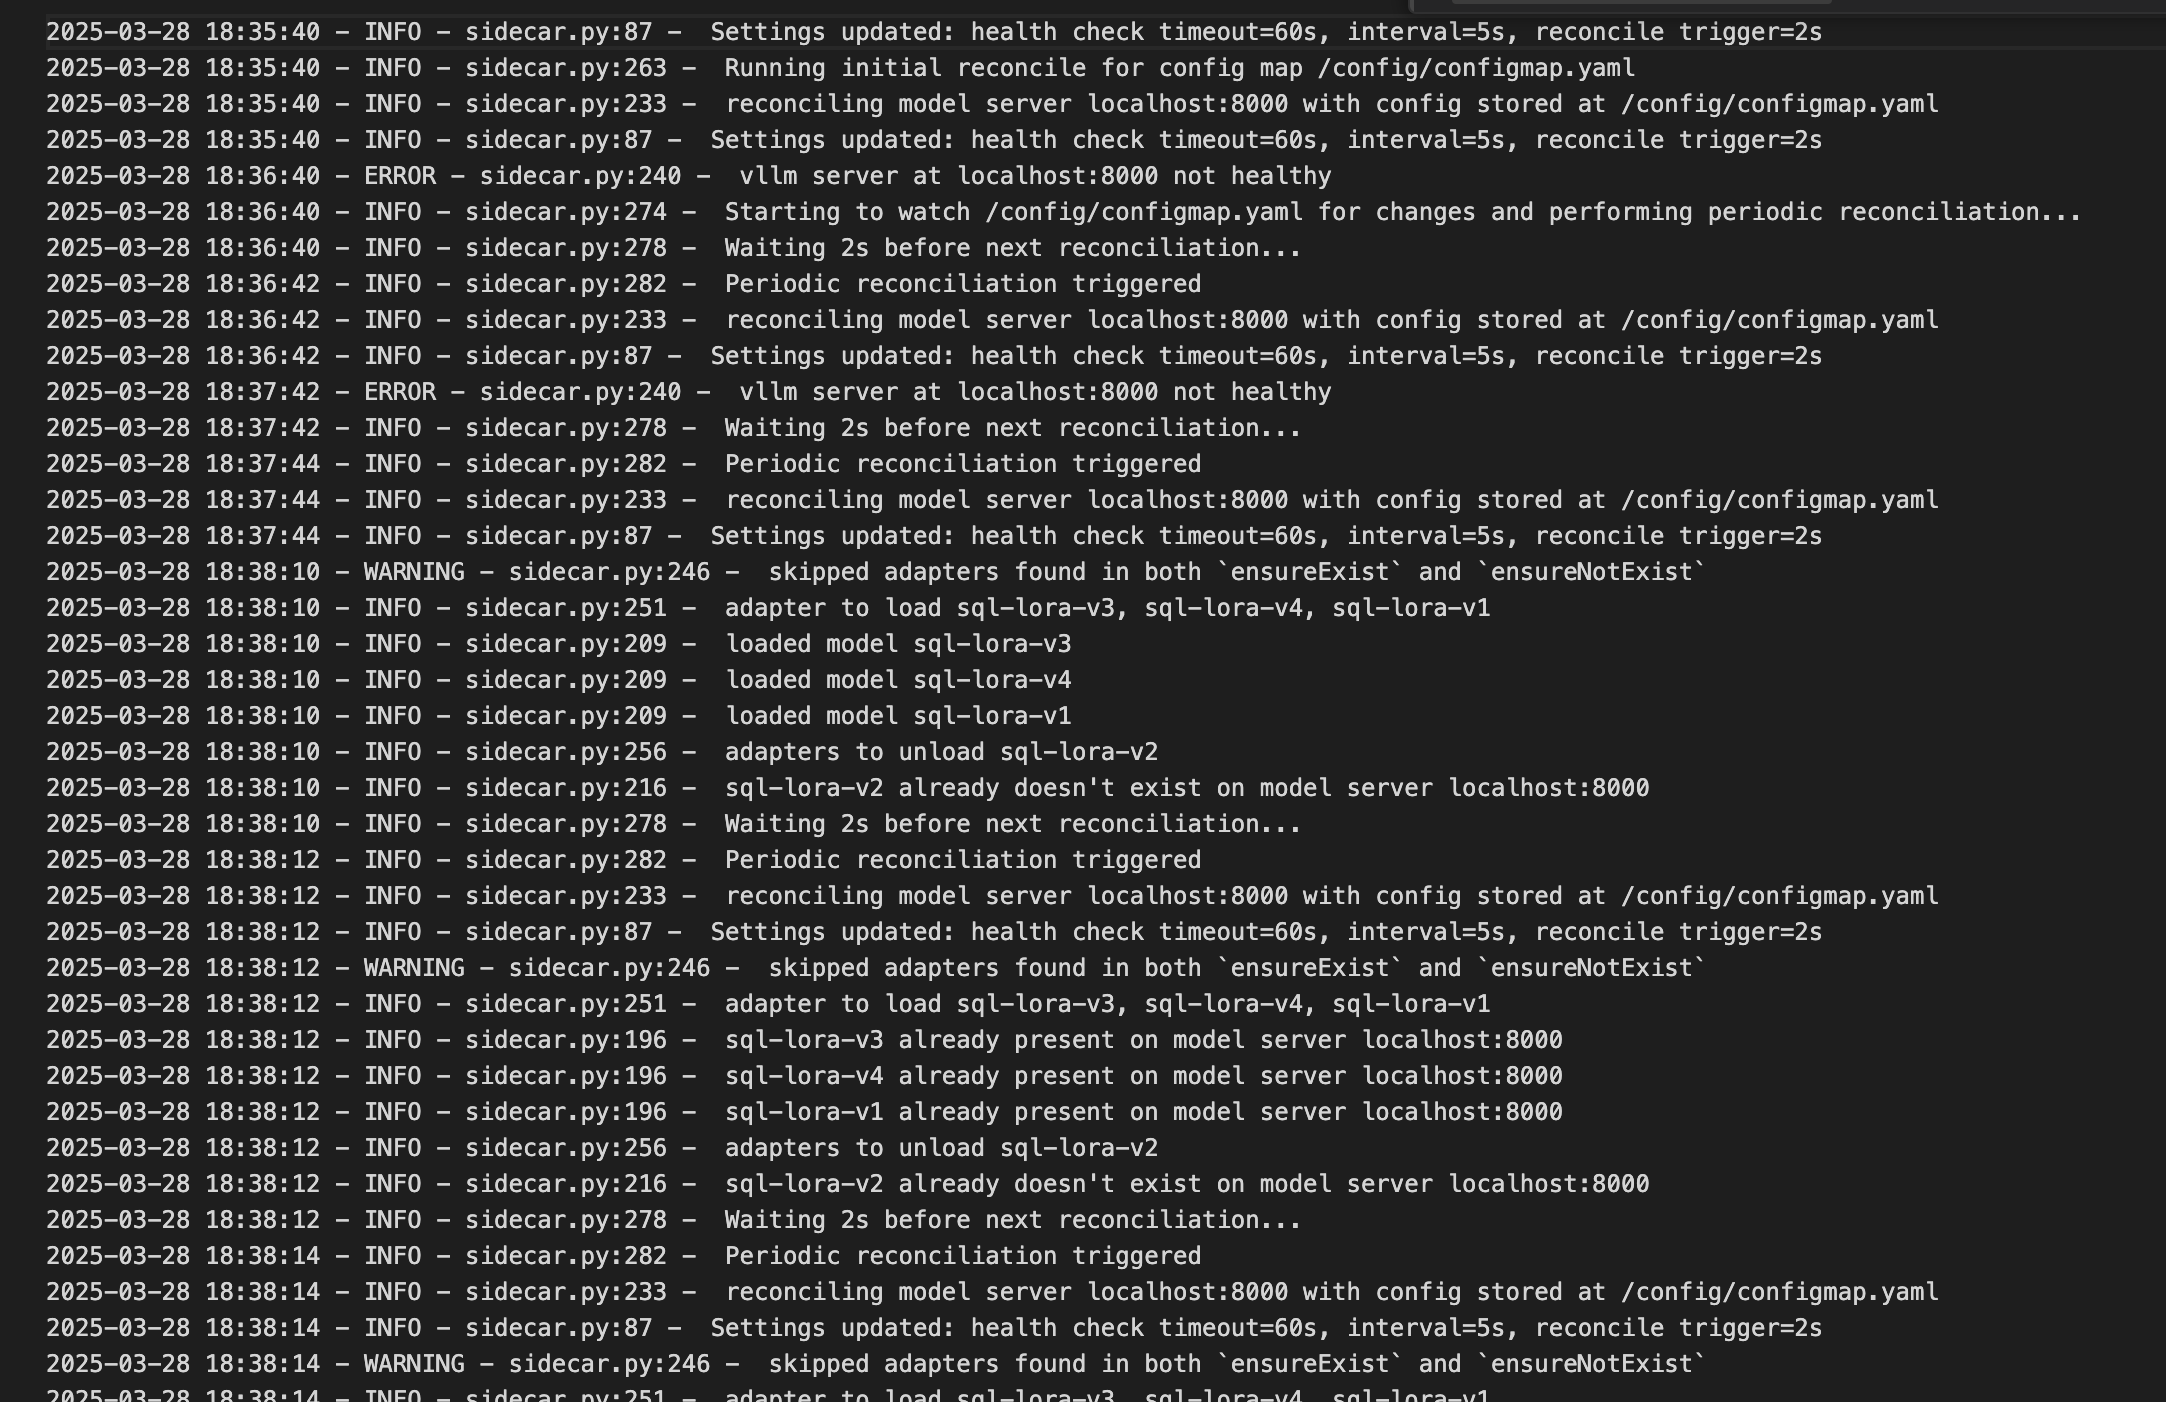
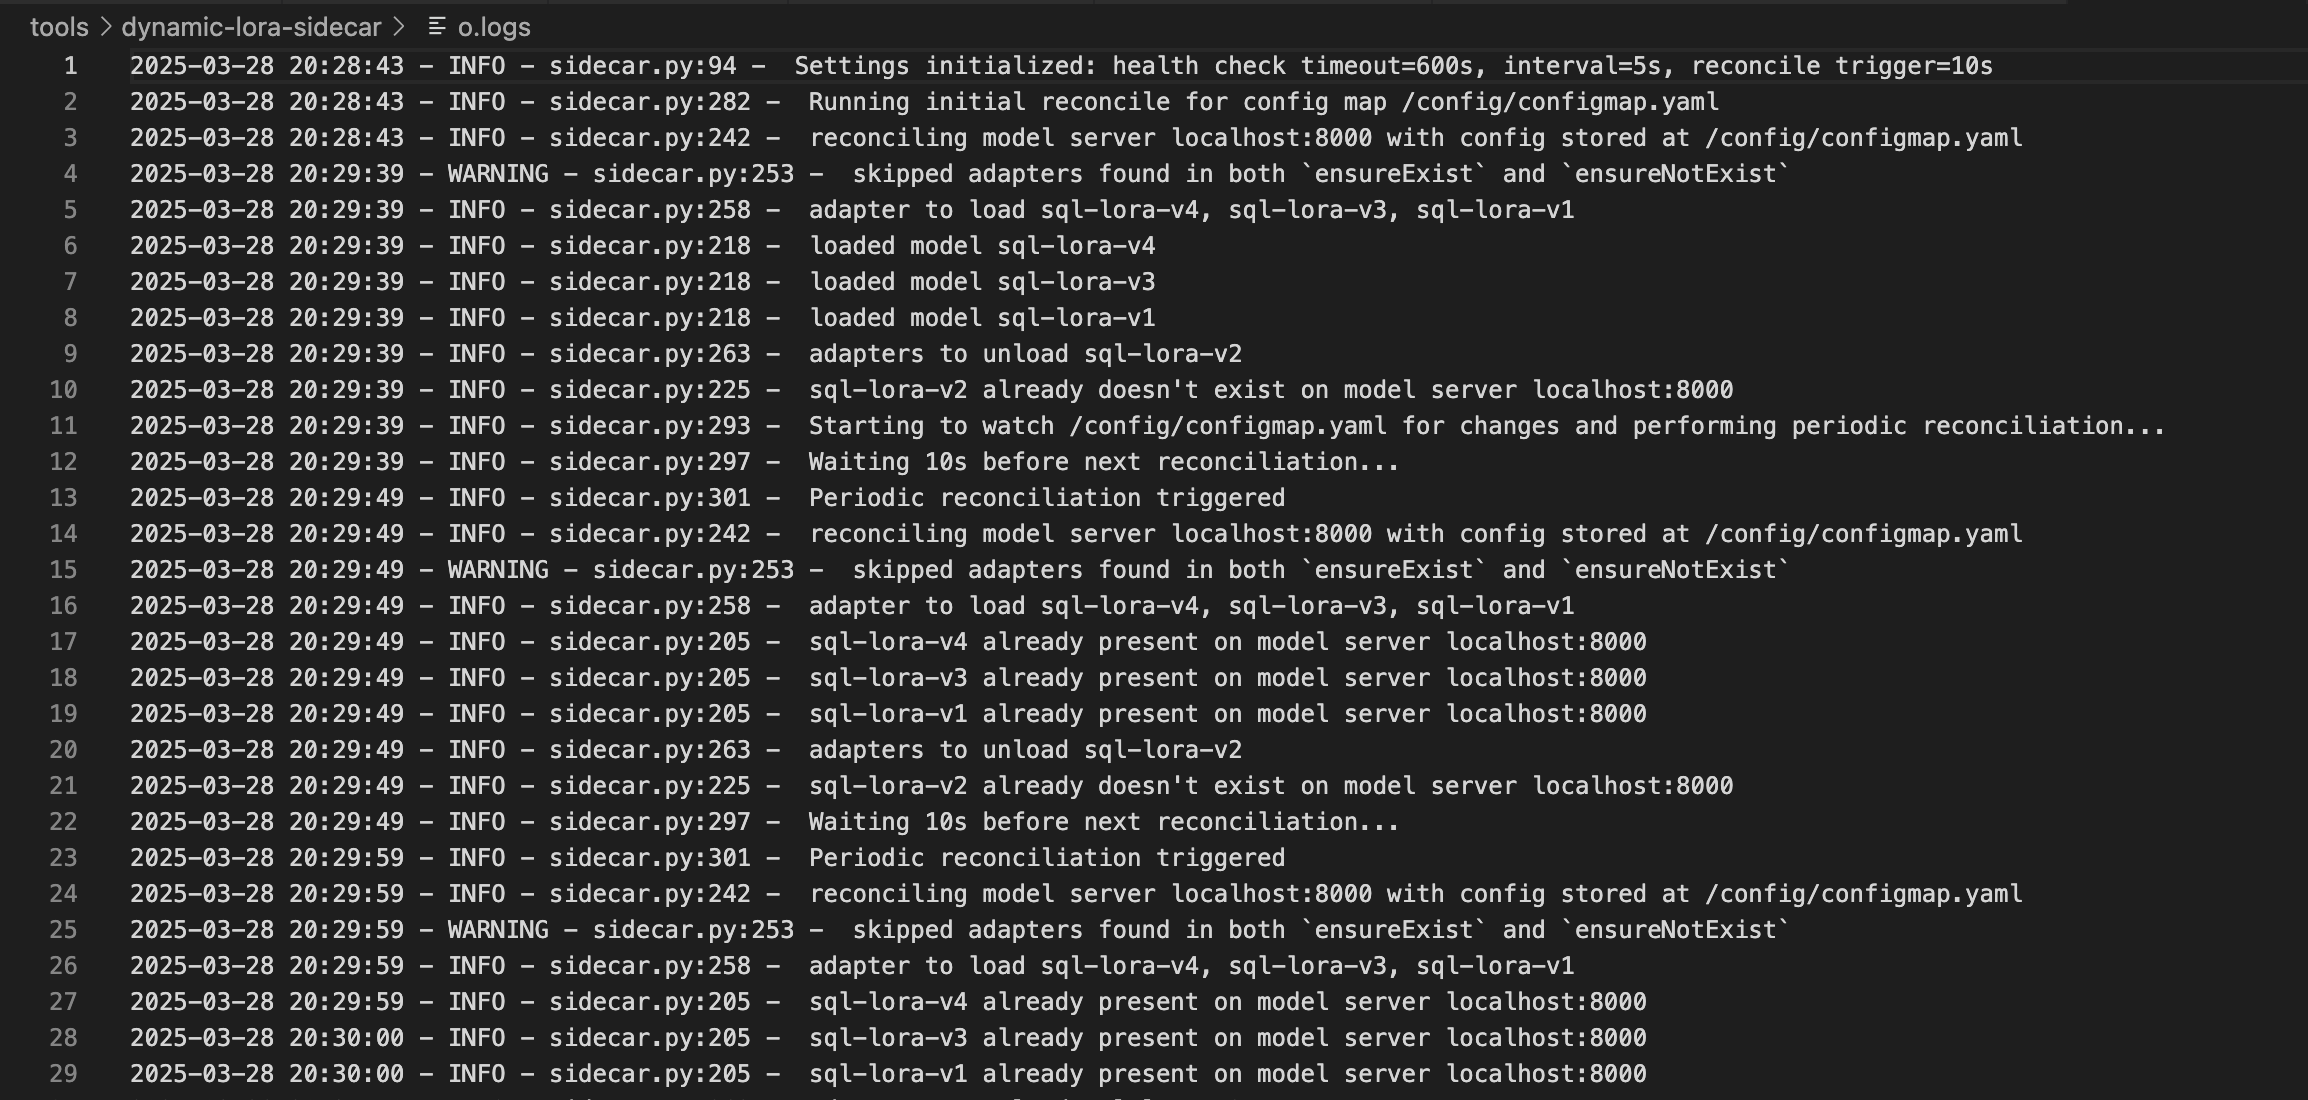
make the health and refresh params in sidecar cmd line argument

Changed region(s): [[0.0, 0.0, 0.928, 1.0]]

diff --git a/tools/dynamic-lora-sidecar/sidecar/sidecar.py b/tools/dynamic-lora-sidecar/sidecar/sidecar.py
@@ -1,6 +1,7 @@
 import requests
 import yaml
 import time
+import argparse
 from jsonschema import validate
 from watchfiles import awatch
 from dataclasses import dataclass
@@ -30,18 +31,35 @@ def current_time_human() -> str:
     return now.strftime("%Y-%m-%d %H:%M:%S %Z%z")
 
 
+def parse_arguments():
+    """Parse command line arguments."""
+    parser = argparse.ArgumentParser(description='vLLM LoRA Adapter Reconciler')
+    parser.add_argument('--health-check-timeout', type=int, default=300,
+                        help='Health check timeout in seconds (default: 300)')
+    parser.add_argument('--health-check-interval', type=int, default=2,
+                        help='Health check interval in seconds (default: 2)')
+    parser.add_argument('--reconcile-trigger', type=int, default=5,
+                        help='Reconciliation trigger interval in seconds (default: 5)')
+    parser.add_argument('--config', type=str, default=CONFIG_MAP_FILE,
+                        help=f'Path to config map file (default: {CONFIG_MAP_FILE})')
+    parser.add_argument('--config-validation', action='store_true', default=True,
+                        help='Enable config validation (default: True)')
+    return parser.parse_args()
+
+
 class FileChangeHandler(FileSystemEventHandler):
     """Custom event handler that handles file modifications."""
 
-    def __init__(self, reconciler):
+    def __init__(self, reconciler, config_file):
         super().__init__()
         self.reconciler = reconciler
+        self.config_file = config_file
 
     def on_modified(self, event):
         logging.info("modified!")
-        logging.info(f"Config '{CONFIG_MAP_FILE}' modified!")
+        logging.info(f"Config '{self.config_file}' modified!")
         self.reconciler.reconcile()
-        logging.info(f"model server reconcile to Config '{CONFIG_MAP_FILE}' !")
+        logging.info(f"model server reconcile to Config '{self.config_file}' !")
 
 
 @dataclass
@@ -65,26 +83,17 @@ class LoraReconciler:
     Reconciles adapters registered on vllm server with adapters listed in configmap in current state
     """
 
-    def __init__(self, config_validation=True):
+    def __init__(self, config_file, health_check_timeout, health_check_interval, 
+                 reconcile_trigger_seconds, config_validation=True):
+        self.config_file = config_file
         self.config_validation = config_validation
-        # Health check values will be initialized from config in first reconcile
-        self._update_health_check_settings()
-
-    def _update_health_check_settings(self):
-        """Update health check settings from config"""
-        config = self.config
-        # Get health check timeout from config with default of 300 seconds
-        timeout_seconds = config.get("healthCheckTimeoutSeconds", 300)
-        self.health_check_timeout = datetime.timedelta(seconds=timeout_seconds)
+        self.health_check_timeout = datetime.timedelta(seconds=health_check_timeout)
+        self.health_check_interval = datetime.timedelta(seconds=health_check_interval)
+        self.reconcile_trigger_seconds = reconcile_trigger_seconds
         
-        # Get health check interval from config with default of 15 seconds
-        interval_seconds = config.get("healthCheckIntervalSeconds", 2)
-        self.health_check_interval = datetime.timedelta(seconds=interval_seconds)
-        
-        # Get reconciliation trigger interval from config with default of 5 seconds
-        self.reconcile_trigger_seconds = config.get("reconcileTriggerSeconds", 1)
-        
-        logging.info(f"Settings updated: health check timeout={timeout_seconds}s, interval={interval_seconds}s, reconcile trigger={self.reconcile_trigger_seconds}s")
+        logging.info(f"Settings initialized: health check timeout={health_check_timeout}s, "
+                     f"interval={health_check_interval}s, "
+                     f"reconcile trigger={self.reconcile_trigger_seconds}s")
 
     def validate_config(self, c) -> bool:
         try:
@@ -93,14 +102,14 @@ class LoraReconciler:
                 validate(instance=c, schema=schema)
                 return True
         except Exception as e:
-            logging.error(f"Cannot load config {CONFIG_MAP_FILE} validation error: {e}")
+            logging.error(f"Cannot load config {self.config_file} validation error: {e}")
             return False
 
     @property
     def config(self):
         """Load configmap into memory"""
         try:
-            with open(CONFIG_MAP_FILE, "r") as f:
+            with open(self.config_file, "r") as f:
                 c = yaml.safe_load(f)
                 if self.config_validation and not self.validate_config(c):
                     return {}
@@ -109,7 +118,7 @@ class LoraReconciler:
                 c = c.get("vLLMLoRAConfig", {})
                 return c
         except Exception as e:
-            logging.error(f"cannot load config {CONFIG_MAP_FILE} {e}")
+            logging.error(f"cannot load config {self.config_file} {e}")
             return {}
 
     @property
@@ -231,10 +240,8 @@ class LoraReconciler:
     def reconcile(self):
         """Reconciles model server with current version of configmap"""
         logging.info(
-            f"reconciling model server {self.model_server} with config stored at {CONFIG_MAP_FILE}"
+            f"reconciling model server {self.model_server} with config stored at {self.config_file}"
         )
-        # Update health check settings from config before reconciliation
-        self._update_health_check_settings()
         
         if not self.is_server_healthy:
             logging.error(f"vllm server at {self.model_server} not healthy")
@@ -259,21 +266,33 @@ class LoraReconciler:
 
 
 async def main():
-    reconciler_instance = LoraReconciler()
-    logging.info(f"Running initial reconcile for config map {CONFIG_MAP_FILE}")
+    args = parse_arguments()
+    
+    # Update CONFIG_MAP_FILE with argument value
+    config_file = args.config
+    
+    reconciler_instance = LoraReconciler(
+        config_file=config_file,
+        health_check_timeout=args.health_check_timeout,
+        health_check_interval=args.health_check_interval,
+        reconcile_trigger_seconds=args.reconcile_trigger,
+        config_validation=args.config_validation
+    )
+    
+    logging.info(f"Running initial reconcile for config map {config_file}")
     reconciler_instance.reconcile()
 
-    event_handler = FileChangeHandler(reconciler_instance)
+    event_handler = FileChangeHandler(reconciler_instance, config_file)
     observer = Observer()
     observer.schedule(
-        event_handler, path=os.path.dirname(CONFIG_MAP_FILE), recursive=False
+        event_handler, path=os.path.dirname(config_file), recursive=False
     )
     observer.start()
 
     try:
-        logging.info(f"Starting to watch {CONFIG_MAP_FILE} for changes and performing periodic reconciliation...")
+        logging.info(f"Starting to watch {config_file} for changes and performing periodic reconciliation...")
         while True:
-            # Get current trigger interval from reconciler config
+            # Get current trigger interval from reconciler
             trigger_seconds = reconciler_instance.reconcile_trigger_seconds
             logging.info(f"Waiting {trigger_seconds}s before next reconciliation...")
             # Wait for configured trigger interval

diff --git a/tools/dynamic-lora-sidecar/sidecar/test_sidecar.py b/tools/dynamic-lora-sidecar/sidecar/test_sidecar.py
@@ -2,7 +2,8 @@ import unittest
 from unittest.mock import patch, Mock, mock_open, call
 import yaml
 import os
-from sidecar import LoraReconciler, CONFIG_MAP_FILE, BASE_FIELD, LoraAdapter
+import datetime
+from sidecar import LoraReconciler, LoraAdapter, CONFIG_MAP_FILE, BASE_FIELD
 
 # Update TEST_CONFIG_DATA to include the new configuration parameters
 TEST_CONFIG_DATA = {
@@ -10,9 +11,6 @@ TEST_CONFIG_DATA = {
         "host": "localhost",
         "name": "sql-loras-llama",
         "port": 8000,
-        "healthCheckTimeoutSeconds": 180,  # Custom health check timeout
-        "healthCheckIntervalSeconds": 10,   # Custom health check interval
-        "reconcileTriggerSeconds": 30,      # Custom reconcile trigger interval
         "ensureExist": {
             "models": [
                 {
@@ -106,7 +104,15 @@ class LoraReconcilerTest(unittest.TestCase):
             mock_response = getMockResponse()
             mock_response.json.return_value = RESPONSES["v1/models"]
             mock_get.return_value = mock_response
-            self.reconciler = LoraReconciler(False)
+            
+            # Create reconciler with command line argument values instead of config file values
+            self.reconciler = LoraReconciler(
+                config_file=CONFIG_MAP_FILE,
+                health_check_timeout=180,
+                health_check_interval=10,
+                reconcile_trigger_seconds=30,
+                config_validation=False
+            )
             self.maxDiff = None
 
     @patch("sidecar.requests.get")
@@ -172,7 +178,15 @@ class LoraReconcilerTest(unittest.TestCase):
                         mock_get_response.json.return_value = RESPONSES["v1/models"]
                         mock_get.return_value = mock_get_response
                         mock_post.return_value = getMockResponse()
-                        self.reconciler = LoraReconciler()
+                        
+                        # Create reconciler with command line argument values
+                        self.reconciler = LoraReconciler(
+                            config_file=CONFIG_MAP_FILE,
+                            health_check_timeout=180,
+                            health_check_interval=10,
+                            reconcile_trigger_seconds=30,
+                            config_validation=False
+                        )
                         self.reconciler.reconcile()
                         
                         # First check the call count
@@ -189,6 +203,21 @@ class LoraReconcilerTest(unittest.TestCase):
                         self.assertIn("sql-lora-v2", unloaded_ids, "sql-lora-v2 should have been unloaded")
                         self.assertIn("to_remove", unloaded_ids, "to_remove should have been unloaded")
 
+    def test_health_check_settings(self):
+        """Test that health check settings are properly initialized from command line args"""
+        # Create reconciler with specific values
+        reconciler = LoraReconciler(
+            config_file=CONFIG_MAP_FILE,
+            health_check_timeout=240,
+            health_check_interval=15,
+            reconcile_trigger_seconds=45,
+            config_validation=False
+        )
+        
+        # Check that values are properly set
+        self.assertEqual(reconciler.health_check_timeout, datetime.timedelta(seconds=240))
+        self.assertEqual(reconciler.health_check_interval, datetime.timedelta(seconds=15))
+        self.assertEqual(reconciler.reconcile_trigger_seconds, 45)
 
 
 if __name__ == "__main__":

diff --git a/tools/dynamic-lora-sidecar/README.md b/tools/dynamic-lora-sidecar/README.md
@@ -29,21 +29,34 @@ The sidecar uses the vLLM server's API to load or unload adapters based on the c
 
 ## Usage
 
+
 1. **Build the Docker Image:**
    ```bash
    docker build -t <your-image-name> .
-2. **Create a configmap:**
-    ```bash
-    kubectl create configmap name-of-your-configmap --from-file=your-file.yaml
-3. **Mount the configmap and configure sidecar in your pod**
-    ```yaml
-    volumeMounts: # DO NOT USE subPath
-          - name: config-volume
-            mountPath:  /config
-    ```
-    Do not use subPath, since configmap updates are not reflected in the file
+   ```
 
-[deployment]: deployment.yaml it uses [sidecar](https://kubernetes.io/docs/concepts/workloads/pods/sidecar-containers/)(`initContainer` with `restartPolicy` set to `always`) which is beta feature enabled by default since k8s version 1.29. They need to be enabled in 1.28 and prior to 1.28 sidecar are not officially supported.
+2. **Create a configmap:**
+   ```bash
+   kubectl create configmap name-of-your-configmap --from-file=your-file.yaml
+   ```
+
+3. **Mount the configmap and configure sidecar in your pod**
+   ```yaml
+   volumeMounts: # DO NOT USE subPath
+         - name: config-volume
+           mountPath:  /config
+   ```
+   Do not use subPath, since configmap updates are not reflected in the file
+
+## Command Line Arguments
+
+The sidecar supports the following command-line arguments:
+
+- `--health-check-timeout`: Maximum time in seconds to wait for the vLLM server health check (default: 300)
+- `--health-check-interval`: Interval in seconds between health check attempts (default: 2)
+- `--reconcile-trigger`: Time in seconds between forced reconciliation runs (default: 5)
+- `--config`: Path to the config map file (default: value from DYNAMIC_LORA_ROLLOUT_CONFIG env var or "/config/configmap.yaml")
+- `--config-validation`: Enable config validation (default: True)
 
 ## Configuration Fields
 - `vLLMLoRAConfig`[**required**]  base key 
@@ -61,11 +74,41 @@ The sidecar uses the vLLM server's API to load or unload adapters based on the c
         -  `source`[**required**] path (remote or local) to lora adapter
         - `base-model`[*optional*] Base model for lora adapter
 
+## Example Deployment
 
+The [deployment.yaml](deployment.yaml) file shows an example of deploying the sidecar with custom parameters:
 
+```yaml
+apiVersion: apps/v1
+kind: Deployment
+metadata:
+  name: dynamic-lora-reconciler
+spec:
+  replicas: 1
+  selector:
+    matchLabels:
+      app: dynamic-lora-reconciler
+  template:
+    metadata:
+      labels:
+        app: dynamic-lora-reconciler
+    spec:
+      containers:
+      - name: reconciler
+        image: your-image:tag
+        command: ["python", "sidecar.py", "--health-check-timeout", "600", "--health-check-interval", "5", "--reconcile-trigger", "10"] #optional if overriding default values
+        volumeMounts:
+        - name: config-volume
+          mountPath: /config
+      volumes:
+      - name: config-volume
+        configMap:
+          name: name-of-your-configmap
+```
+
+Note: This uses [sidecar](https://kubernetes.io/docs/concepts/workloads/pods/sidecar-containers/)(`initContainer` with `restartPolicy` set to `always`) which is beta feature enabled by default since k8s version 1.29. They need to be enabled in 1.28 and prior to 1.28 sidecar are not officially supported.
 
 ## Screenshots & Testing
 The sidecar was tested with the Deployment and ConfigMap specified in this repo. Here are screen grabs of the logs from the sidecar and vllm server. One can verify that the adapters were loaded by querying `v1/models` and looking at vllm logs.
-![lora-adapter-syncer](screenshots/lora-syncer-sidecar.png)
-![config map change](screenshots/configmap-change.png)
+![lora-adapter-syncer](screenshots/lora-syncer-logs.png)
 ![vllm-logs](screenshots/vllm-logs.png)
